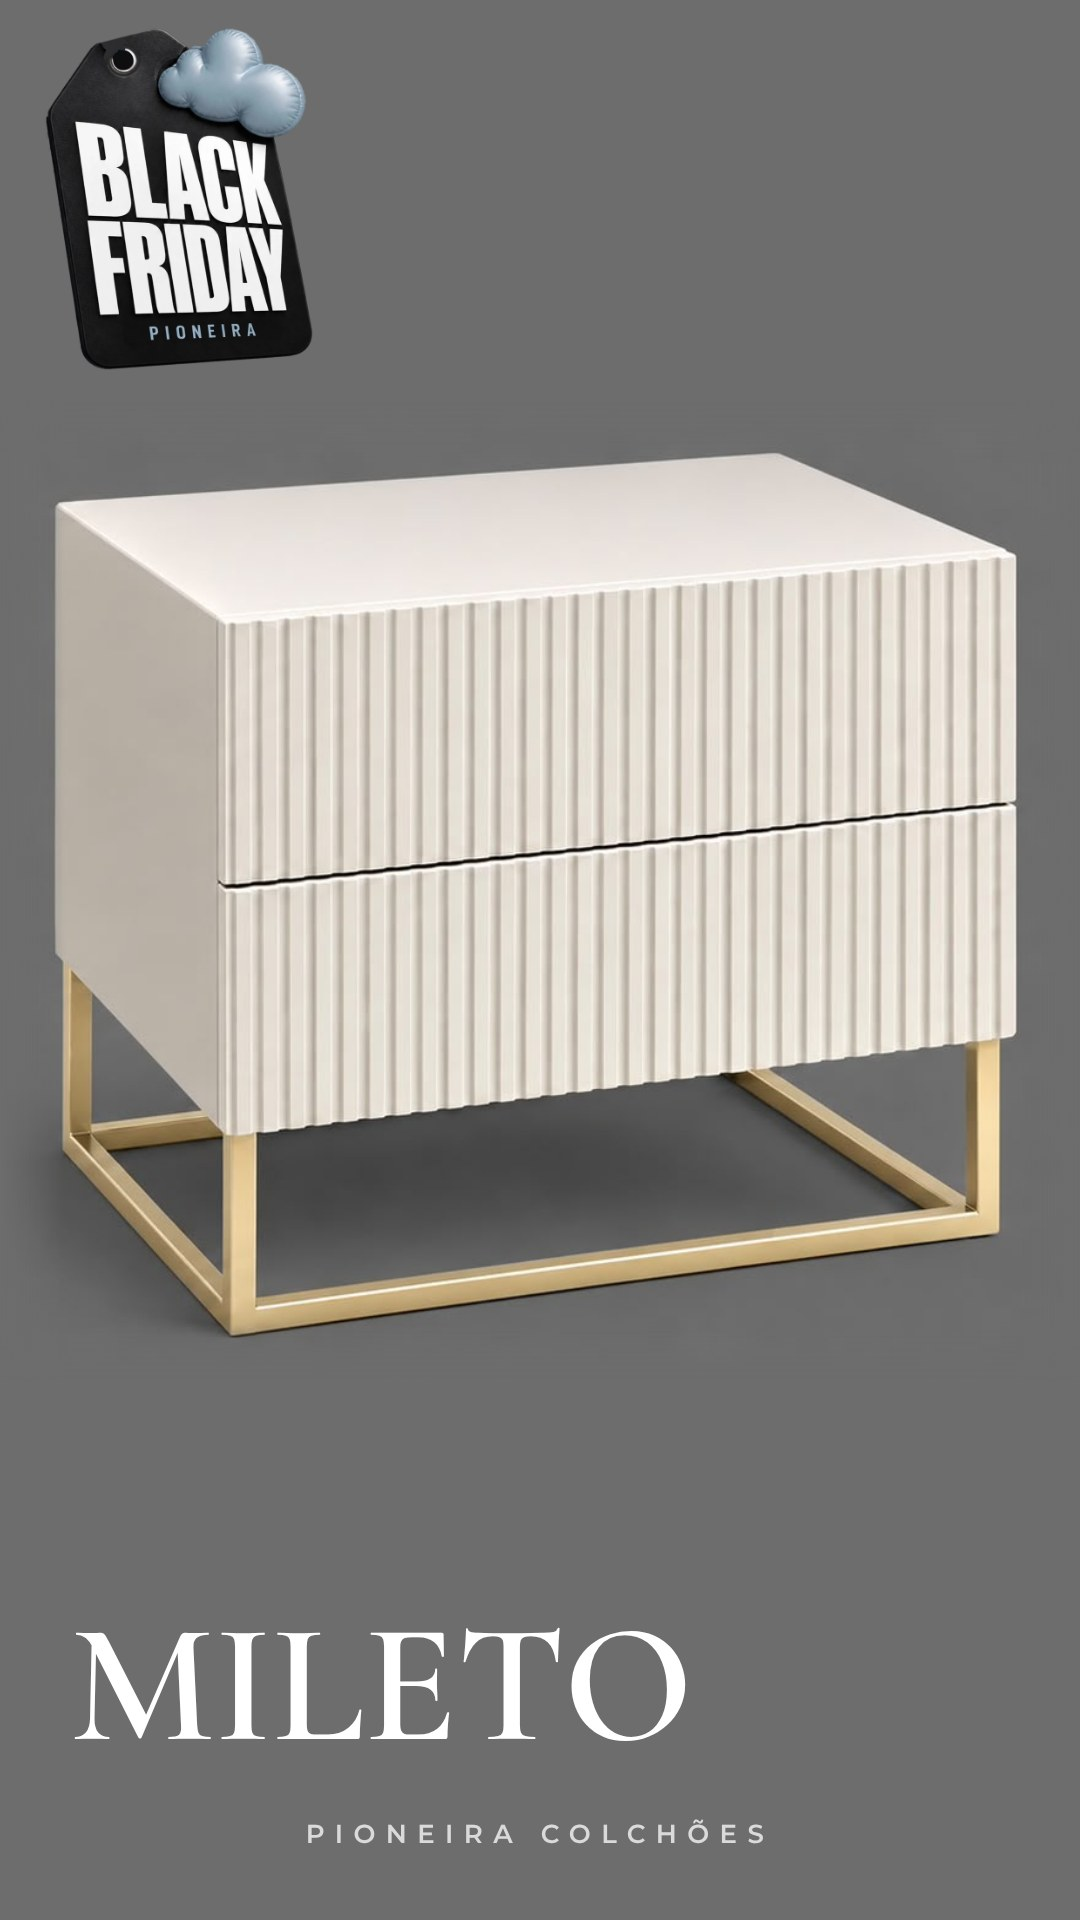
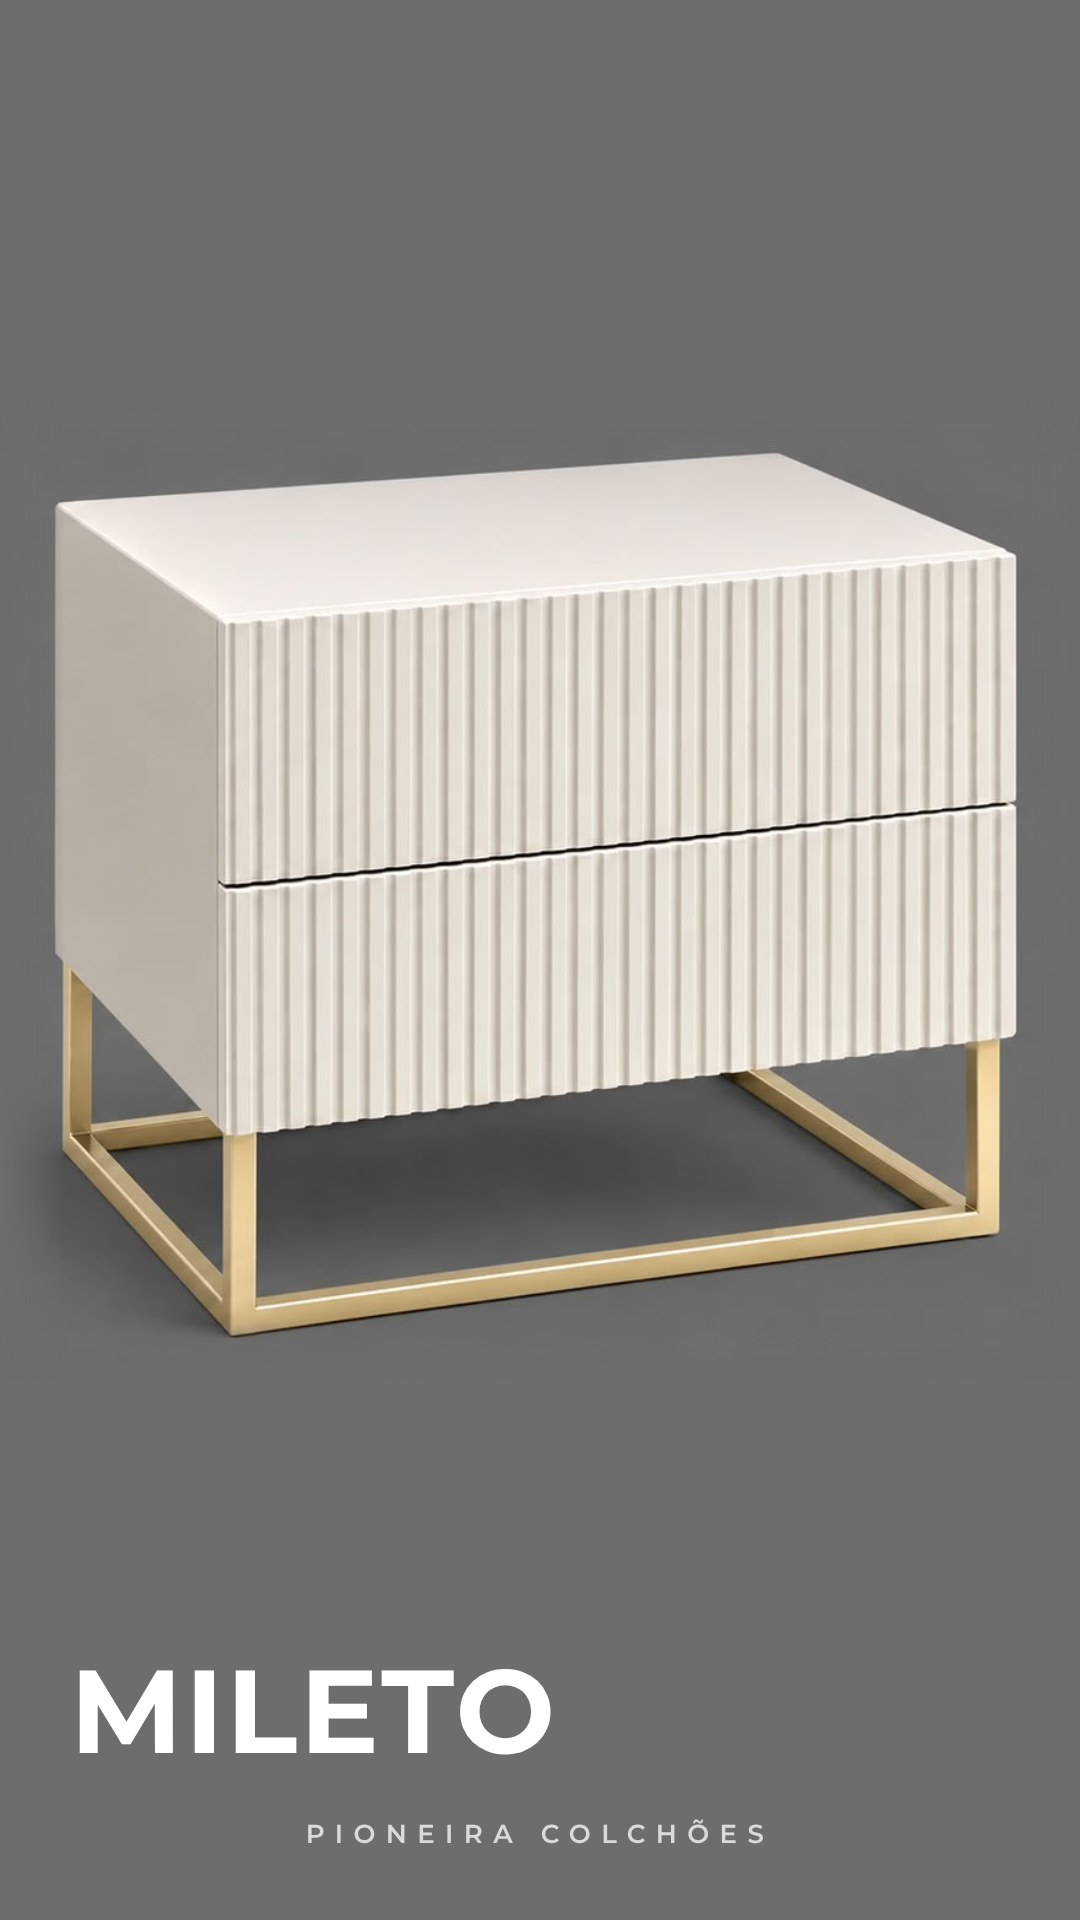
Filtro por medida (Solteiro, Solteirão, Casal, Queen, King) na tela de categorias; mesas sem a tag e com fonte mais legível
Claude-Session: https://claude.ai/code/session_01Wenqvw9cMbUz8i68jYt1Pp

Changed region(s): [[0.0306, 0.0, 0.3056, 0.2188], [0.0611, 0.8438, 0.6417, 0.9375]]

diff --git a/app.js b/app.js
@@ -39,9 +39,16 @@ const COND="Até 10x no cartão · Condições especiais no Pix";
 const imgFull=p=>p.url||`img/ofertas/${p.img}`;
 const imgThumb=p=>p.thumb||(p.url?p.url:`img/ofertas/t/${p.img}`);
 const catThumb=c=>c.coverUrl||(c.cover?`img/ofertas/t/${c.cover}`:"");
-const catOf=k=>{const c=CATEGORIES.find(c=>c.key===k);return visCat(c)?c:undefined};
+const MEDIDAS=[["solteiro","Solteiro","0,88 × 1,88"],["solteirao","Solteirão","1,08 × 1,98"],["casal","Casal","1,38 × 1,88"],["queen","Queen","1,58 × 1,98"],["king","King","1,93 × 2,03"]];
+const medOf=p=>{if(p.med)return p.med;const t=(String(p.name||"")+" "+String(p.leg||"")).replace(/king koil/ig,"");const r=[];
+  if(/solteir[ãa]o/i.test(t))r.push("solteirao");
+  if(/solteiro/i.test(t.replace(/solteir[ãa]o/ig,"")))r.push("solteiro");
+  if(/casal/i.test(t))r.push("casal");if(/queen/i.test(t))r.push("queen");if(/\bking\b/i.test(t))r.push("king");return r};
 const visCat=c=>!!c&&(!STORE.soBlack||!!c.black);
-const inCat=k=>visCat(CATEGORIES.find(c=>c.key===k))?PRODUCTS.filter(p=>p.cat===k||(p.tags&&p.tags.includes(k))):[];
+const catVis=k=>visCat(CATEGORIES.find(c=>c.key===k));
+const medList=m=>PRODUCTS.filter(p=>catVis(p.cat)&&medOf(p).includes(m));
+const catOf=k=>{if(k.indexOf("medida-")===0){const m=MEDIDAS.find(x=>x[0]===k.slice(7));return m?{key:k,name:m[1]}:undefined}const c=CATEGORIES.find(c=>c.key===k);return visCat(c)?c:undefined};
+const inCat=k=>k.indexOf("medida-")===0?medList(k.slice(7)):(visCat(CATEGORIES.find(c=>c.key===k))?PRODUCTS.filter(p=>p.cat===k||(p.tags&&p.tags.includes(k))):[]);
 
 // Rolagem vertical em tela cheia. opts.closing → última tela com convite; opts.start → índice inicial.
 function feedHTML(list,opts={}){
@@ -160,7 +167,7 @@ const ROUTES={
     const tile=c=>{const n=inCat(c.key).length;
       return catThumb(c)&&n?`<a class="cat" href="#/c/${c.key}/0"><img src="${catThumb(c)}" alt="" style="object-position:${c.pos||"top"}"><span><b>${c.name}</b><small>${n} ${n===1?"oferta":"ofertas"}</small></span></a>`
       :`<a class="cat soon" href="#/c/${c.key}"><span><b>${c.name}</b><small>${n?`${n} ${n===1?"oferta":"ofertas"}`:"Em breve"}</small></span></a>`};
-    app.innerHTML=`<div class="view light scroll"><header class="bar"><span></span><h1>Categorias</h1><a class="ic" href="#/" aria-label="Fechar">${CLOSE}</a></header>${groups.map(g=>`<section class="grpbox">${g.n?`<h2 class="grp">${esc(g.n==="Marcas"&&STORE.soBlack?"Black por marca":g.n)}</h2>`:""}<div class="cats">${g.l.map(tile).join("")}</div></section>`).join("")}<a class="aboutlink" href="#/loja">A Pioneira<small>Pagamento, contato e atendimento</small></a></div>`;
+    app.innerHTML=`<div class="view light scroll"><header class="bar"><span></span><h1>Categorias</h1><a class="ic" href="#/" aria-label="Fechar">${CLOSE}</a></header><section class="medbox"><h2 class="grp">Procurando uma medida?</h2><div class="meds">${MEDIDAS.map(m=>{const n=medList(m[0]).length;return n?`<a class="med" href="#/c/medida-${m[0]}/0"><b>${m[1]}</b><small>${m[2]} m</small><i>${n}</i></a>`:""}).join("")}</div></section>${groups.map(g=>`<section class="grpbox">${g.n?`<h2 class="grp">${esc(g.n==="Marcas"&&STORE.soBlack?"Black por marca":g.n)}</h2>`:""}<div class="cats">${g.l.map(tile).join("")}</div></section>`).join("")}<a class="aboutlink" href="#/loja">A Pioneira<small>Pagamento, contato e atendimento</small></a></div>`;
   },
   loja(){
     const S=STORE,rows=[];

diff --git a/products.js b/products.js
@@ -110,7 +110,7 @@ window.PRODUCTS = [
   {cat:"box-gold",loja:true,img:"box-gold-14.jpg",name:"Box Gold",ratio:"1/1"},
   {cat:"box-gold",loja:true,img:"box-gold-15.jpg",name:"Box Gold",ratio:"1/1"},
   // ── Black Friday ──
-  {cat:"box-bau",top:true,img:"box-bau-tabela.jpg",leg:"Box Baú · todos os tamanhos",preco:"Solteiro ao King · a partir de R$ 999",name:"Box Baú (tabela de preços: Solteiro ao King)"},
+  {cat:"box-bau",top:true,img:"box-bau-tabela.jpg",med:["solteiro","solteirao","casal","queen","king"],leg:"Box Baú · todos os tamanhos",preco:"Solteiro ao King · a partir de R$ 999",name:"Box Baú (tabela de preços: Solteiro ao King)"},
   {cat:"campanha",top:true,video:"video-black-esperar.mp4",img:"video-black-esperar.jpg",name:"Vídeo: Por que esperar pode sair caro?",wa:"as ofertas da Black Friday"},
   {cat:"tricama",top:true,img:"tricama-promo.jpg",leg:"Tricama 3 em 1 · aço e 2 anos de garantia",preco:"10x R$ 333,87 · R$ 3.050 à vista",name:"Tricama 3 em 1 (estrutura em aço, 2 anos de garantia)"},
   {cat:"mesas",top:true,video:"video-mesas-cabeceira.mp4",img:"video-mesas-cabeceira.jpg",leg:"Toque no modelo preferido",chips:[{t:"DIME",img:"mesa-dime.jpg"},{t:"MILETO",img:"mesa-mileto.jpg"},{t:"MH5404",img:"mesa-mh5404.jpg"},{t:"MH5405",img:"mesa-mh5405.jpg"},{t:"MH5410",img:"mesa-mh5410.jpg"},{t:"LINO",img:"mesa-lino.jpg"},{t:"MILOS",img:"mesa-milos.jpg"}],name:"Vídeo: Mesas de cabeceira",wa:"Mesas de cabeceira"},

diff --git a/index.html b/index.html
@@ -13,7 +13,7 @@
 <meta name="twitter:card" content="summary_large_image"><meta name="twitter:title" content="Black Friday Pioneira"><meta name="twitter:image" content="https://apioneiracolchoes.pages.dev/img/card-oferta.jpg">
 <link rel="icon" href="icon.svg" type="image/svg+xml"><link rel="apple-touch-icon" href="icon-180.png"><link rel="manifest" href="manifest.webmanifest">
 <link rel="stylesheet" href="https://fonts.googleapis.com/css2?family=Cormorant+Garamond:ital,wght@0,500;0,600;1,500&family=Montserrat:wght@400;500;600&family=Comfortaa:wght@600;700&display=swap">
-<link rel="stylesheet" href="style.css?v=20261111d"></head><body>
+<link rel="stylesheet" href="style.css?v=20261111f"></head><body>
 <div id="splash"><span class="logo big"><svg class="cloud" viewBox="0 0 64 40" aria-hidden="true"><path fill="#6db3f0" d="M16 38a12 12 0 0 1-2-23.8A15 15 0 0 1 43 11a13 13 0 0 1 6 27z"/></svg><b>apioneira</b><small>COLCHÕES</small></span></div>
 <div id="app"></div>
-<script>window.BUILD="20261111d"</script><script src="config.js?v=20261106c"></script><script src="products.js?v=20261106c"></script><script src="app.js?v=20261106c"></script></body></html>
+<script>window.BUILD="20261111f"</script><script src="config.js?v=20261106c"></script><script src="products.js?v=20261106c"></script><script src="app.js?v=20261106c"></script></body></html>

diff --git a/style.css b/style.css
@@ -463,3 +463,13 @@ a{color:inherit;text-decoration:none}
 .car .slide{position:relative}
 .car .slide.act{z-index:3}
 .car .slide:not(.act) .cap{pointer-events:none}
+
+/* filtro por medida */
+.medbox{max-width:560px;margin:0 auto;padding-top:4px}
+.meds{display:grid;grid-template-columns:repeat(5,1fr);gap:8px;padding:12px 16px 6px}
+.med{position:relative;display:flex;flex-direction:column;align-items:center;justify-content:center;gap:3px;padding:14px 4px 12px;border:1px solid #17325a2b;border-radius:14px;background:#fff;color:#17325a;text-align:center}
+.med b{font-family:var(--serif);font-weight:600;font-size:1.02rem;line-height:1}
+.med small{font-size:.46rem;letter-spacing:.04em;color:#6c7f9c;white-space:nowrap}
+.med i{position:absolute;top:-7px;right:-4px;min-width:20px;height:20px;border-radius:99px;background:#17325a;color:#fff;font-style:normal;font-size:.58rem;font-weight:700;display:grid;place-items:center;padding:0 5px}
+.med:active{background:#17325a0d}
+@media(max-width:360px){.med b{font-size:.9rem}}
